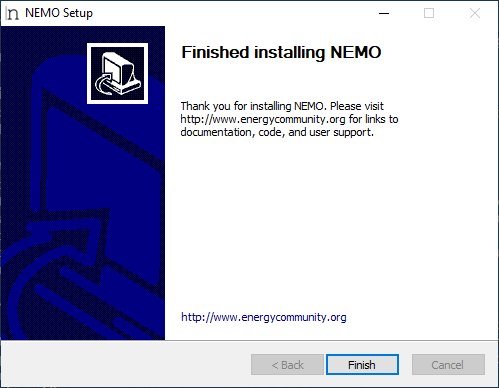
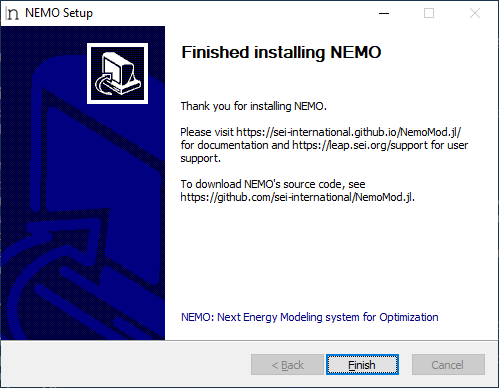
Initial documentation updates for 1.2

Changed region(s): [[0.3607, 0.2474, 0.9319, 0.433], [0.3607, 0.4639, 0.8417, 0.5258], [0.3607, 0.8041, 0.8717, 0.8351]]

diff --git a/docs/src/quick_start.md b/docs/src/quick_start.md
@@ -22,99 +22,104 @@ NEMO includes a number of features and options, so it's worth familiarizing your
    The first command activates the Julia packages for NEMO, JuMP (an optimization toolkit that NEMO uses), and Cbc (a solver). The next two commands locate the test scenario's [database](@ref scenario_db) and ensure this file is writable (so NEMO can save scenario results). The final command calculates the scenario. You should see output like the following:
 
    ```
-   2020-18-May 16:11:35.568 Started scenario calculation.
-   2020-18-May 16:11:35.572 Validated run-time arguments.
-   2020-18-May 16:11:35.573 Connected to scenario database. Path = C:\Users\Jason\.julia\packages\NemoMod\Pq841\test\storage_test.sqlite.
-   2020-18-May 16:11:35.575 Dropped pre-existing result tables from database.
-   2020-18-May 16:11:35.581 Verified that transmission modeling is not enabled.
-   2020-18-May 16:11:35.621 Created parameter views and indices.
-   2020-18-May 16:11:35.624 Defined dimensions.
-   2020-18-May 16:11:35.625 Defined demand variables.
-   2020-18-May 16:11:35.628 Defined storage variables.
-   2020-18-May 16:11:35.632 Defined capacity variables.
-   2020-18-May 16:11:35.799 Defined activity variables.
-   2020-18-May 16:11:35.800 Defined costing variables.
-   2020-18-May 16:11:35.801 Defined reserve margin variables.
-   2020-18-May 16:11:35.805 Defined renewable energy target variables.
-   2020-18-May 16:11:35.806 Defined emissions variables.
-   2020-18-May 16:11:35.807 Defined combined nodal and non-nodal variables.
-   2020-18-May 16:11:35.807 Finished defining model variables.
-   2020-18-May 16:11:35.809 Created constraint CAa1_TotalNewCapacity.
-   2020-18-May 16:11:35.809 Created constraint CAa2_TotalAnnualCapacity.
-   2020-18-May 16:11:35.818 Created constraint CAa3_TotalActivityOfEachTechnology.
-   2020-18-May 16:11:35.845 Created constraint CAa4_Constraint_Capacity.
-   2020-18-May 16:11:35.949 Created constraint EBa2_RateOfFuelProduction2.
-   2020-18-May 16:11:35.959 Created constraint EBa3_RateOfFuelProduction3.
-   2020-18-May 16:11:35.962 Created constraint VRateOfProduction1.
-   2020-18-May 16:11:35.971 Created constraint EBa5_RateOfFuelUse2.
-   2020-18-May 16:11:35.977 Created constraint EBa6_RateOfFuelUse3.
-   2020-18-May 16:11:35.982 Created constraint VRateOfUse1.
-   2020-18-May 16:11:36.000 Created constraint EBa7_EnergyBalanceEachTS1.
-   2020-18-May 16:11:36.001 Created constraint EBa8_EnergyBalanceEachTS2.
-   2020-18-May 16:11:36.012 Created constraint EBa9_EnergyBalanceEachTS3.
-   2020-18-May 16:11:36.016 Created constraint EBa10_EnergyBalanceEachTS4.
-   2020-18-May 16:11:36.036 Created constraint EBa11_EnergyBalanceEachTS5.
-   2020-18-May 16:11:36.038 Created constraint EBb0_EnergyBalanceEachYear.
-   2020-18-May 16:11:36.040 Created constraint EBb1_EnergyBalanceEachYear.
-   2020-18-May 16:11:36.041 Created constraint EBb2_EnergyBalanceEachYear.
-   2020-18-May 16:11:36.043 Created constraint EBb3_EnergyBalanceEachYear.
-   2020-18-May 16:11:36.048 Created constraint EBb5_EnergyBalanceEachYear.
-   2020-18-May 16:11:36.084 Created constraint Acc3_AverageAnnualRateOfActivity.
-   2020-18-May 16:11:36.092 Created constraint NS1_RateOfStorageCharge.
-   2020-18-May 16:11:36.099 Created constraint NS2_RateOfStorageDischarge.
-   2020-18-May 16:11:36.107 Created constraint NS3_StorageLevelTsGroup1Start.
-   2020-18-May 16:11:36.108 Created constraint NS4_StorageLevelTsGroup2Start.
-   2020-18-May 16:11:36.113 Created constraint NS5_StorageLevelTimesliceEnd.
-   2020-18-May 16:11:36.116 Created constraint NS6_StorageLevelTsGroup2End.
-   2020-18-May 16:11:36.117 Created constraint NS7_StorageLevelTsGroup1End.
-   2020-18-May 16:11:36.127 Created constraint NS8_StorageLevelYearEnd.
-   2020-18-May 16:11:36.127 Created constraint SI1_StorageUpperLimit.
-   2020-18-May 16:11:36.128 Created constraint SI2_StorageLowerLimit.
-   2020-18-May 16:11:36.129 Created constraint SI3_TotalNewStorage.
-   2020-18-May 16:11:36.133 Created constraint NS9a_StorageLevelTsLowerLimit.
-   2020-18-May 16:11:36.134 Created constraint NS9b_StorageLevelTsUpperLimit.
-   2020-18-May 16:11:36.138 Created constraint NS10_StorageChargeLimit.
-   2020-18-May 16:11:36.144 Created constraint NS11_StorageDischargeLimit.
-   2020-18-May 16:11:36.145 Created constraint NS12a_StorageLevelTsGroup2LowerLimit.
-   2020-18-May 16:11:36.146 Created constraint NS12b_StorageLevelTsGroup2UpperLimit.
-   2020-18-May 16:11:36.147 Created constraint NS13a_StorageLevelTsGroup1LowerLimit.
-   2020-18-May 16:11:36.147 Created constraint NS13b_StorageLevelTsGroup1UpperLimit.
-   2020-18-May 16:11:36.148 Created constraint NS18_FullLoadHours.
-   2020-18-May 16:11:36.153 Created constraint SI4_UndiscountedCapitalInvestmentStorage.
-   2020-18-May 16:11:36.154 Created constraint SI5_DiscountingCapitalInvestmentStorage.
-   2020-18-May 16:11:36.156 Created constraint SI8_SalvageValueStorageAtEndOfPeriod3.
-   2020-18-May 16:11:36.157 Created constraint SI9_SalvageValueStorageDiscountedToStartYear.
-   2020-18-May 16:11:36.157 Created constraint SI10_TotalDiscountedCostByStorage.
-   2020-18-May 16:11:36.158 Created constraint CC1_UndiscountedCapitalInvestment.
-   2020-18-May 16:11:36.161 Created constraint CC2_DiscountingCapitalInvestment.
-   2020-18-May 16:11:36.169 Created constraint SV1_SalvageValueAtEndOfPeriod1.
-   2020-18-May 16:11:36.173 Created constraint SV4_SalvageValueDiscountedToStartYear.
-   2020-18-May 16:11:36.173 Created constraint OC1_OperatingCostsVariable.
-   2020-18-May 16:11:36.174 Created constraint OC2_OperatingCostsFixedAnnual.
-   2020-18-May 16:11:36.175 Created constraint OC3_OperatingCostsTotalAnnual.
-   2020-18-May 16:11:36.183 Created constraint OC4_DiscountedOperatingCostsTotalAnnual.
-   2020-18-May 16:11:36.184 Created constraint TDC1_TotalDiscountedCostByTechnology.
-   2020-18-May 16:11:36.184 Created constraint TDC2_TotalDiscountedCost.
-   2020-18-May 16:11:36.185 Created constraint TCC1_TotalAnnualMaxCapacityConstraint.
-   2020-18-May 16:11:36.185 Created constraint NCC1_TotalAnnualMaxNewCapacityConstraint.
-   2020-18-May 16:11:36.186 Created constraint RM1_ReserveMargin_TechnologiesIncluded_In_Activity_Units.
-   2020-18-May 16:11:36.191 Created constraint RM2_ReserveMargin_FuelsIncluded.
-   2020-18-May 16:11:36.197 Created constraint RM3_ReserveMargin_Constraint.
-   2020-18-May 16:11:36.204 Created constraint RE1_FuelProductionByTechnologyAnnual.
-   2020-18-May 16:11:36.210 Created constraint FuelUseByTechnologyAnnual.
-   2020-18-May 16:11:36.217 Created constraint E5_DiscountedEmissionsPenaltyByTechnology.
-   2020-18-May 16:11:36.221 Defined model objective.
-   2020-18-May 16:11:43.500 Solved model. Solver status = Optimal.
-   2020-18-May 16:11:43.524 Saved results for vdemandnn to database.
-   2020-18-May 16:11:43.542 Saved results for vnewcapacity to database.
-   2020-18-May 16:11:43.557 Saved results for vtotalcapacityannual to database.
-   2020-18-May 16:11:43.575 Saved results for vproductionbytechnologyannual to database.
-   2020-18-May 16:11:43.601 Saved results for vproductionnn to database.
-   2020-18-May 16:11:43.616 Saved results for vusebytechnologyannual to database.
-   2020-18-May 16:11:43.638 Saved results for vusenn to database.
-   2020-18-May 16:11:43.652 Saved results for vtotaldiscountedcost to database.
-   2020-18-May 16:11:43.654 Finished saving results to database.
-   2020-18-May 16:11:43.654 Finished scenario calculation.
+   2020-09-Sep 15:12:17.164 Started scenario calculation.
+   2020-09-Sep 15:12:17.165 Validated run-time arguments.
+   2020-09-Sep 15:12:17.226 0 specified for numprocs argument. Using 8 processes for parallelized operations.
+   2020-09-Sep 15:13:15.411 Loaded NEMO on parallel processes 1, 2, 3, 4, 5, 6, 7, 8.
+   2020-09-Sep 15:13:15.411 Connected to scenario database. Path = c:/temp/storage_test.sqlite.
+   2020-09-Sep 15:13:16.035 Dropped pre-existing result tables from database.
+   2020-09-Sep 15:13:16.037 Verified that transmission modeling is not enabled.
+   2020-09-Sep 15:13:16.299 Created parameter views and indices.
+   2020-09-Sep 15:13:16.321 Created temporary tables.
+   2020-09-Sep 15:13:18.459 Executed core database queries.
+   2020-09-Sep 15:13:18.613 Defined dimensions.
+   2020-09-Sep 15:13:18.626 Defined demand variables.
+   2020-09-Sep 15:13:18.628 Defined storage variables.
+   2020-09-Sep 15:13:18.629 Defined capacity variables.
+   2020-09-Sep 15:13:18.873 Defined activity variables.
+   2020-09-Sep 15:13:18.874 Defined costing variables.
+   2020-09-Sep 15:13:18.875 Defined reserve margin variables.
+   2020-09-Sep 15:13:18.882 Defined renewable energy target variables.
+   2020-09-Sep 15:13:18.883 Defined emissions variables.
+   2020-09-Sep 15:13:18.883 Defined combined nodal and non-nodal variables.
+   2020-09-Sep 15:13:18.884 Finished defining model variables.
+   2020-09-Sep 15:13:18.908 Created constraint CAa1_TotalNewCapacity.
+   2020-09-Sep 15:13:18.920 Created constraint CAa2_TotalAnnualCapacity.
+   2020-09-Sep 15:13:18.931 Created constraint CAa3_TotalActivityOfEachTechnology.
+   2020-09-Sep 15:13:18.964 Created constraint CAa4_Constraint_Capacity.
+   2020-09-Sep 15:13:18.978 Created constraint EBa2_RateOfFuelProduction2.
+   2020-09-Sep 15:13:19.003 Created constraint EBa3_RateOfFuelProduction3.
+   2020-09-Sep 15:13:19.006 Created constraint VRateOfProduction1.
+   2020-09-Sep 15:13:19.012 Created constraint EBa5_RateOfFuelUse2.
+   2020-09-Sep 15:13:19.022 Created constraint EBa6_RateOfFuelUse3.
+   2020-09-Sep 15:13:19.032 Created constraint VRateOfUse1.
+   2020-09-Sep 15:13:19.052 Created constraint EBa7_EnergyBalanceEachTS1.
+   2020-09-Sep 15:13:19.056 Created constraint EBa8_EnergyBalanceEachTS2.
+   2020-09-Sep 15:13:19.065 Created constraint EBa9_EnergyBalanceEachTS3.
+   2020-09-Sep 15:13:19.073 Created constraint EBa10_EnergyBalanceEachTS4.
+   2020-09-Sep 15:13:19.092 Created constraint EBa11_EnergyBalanceEachTS5.
+   2020-09-Sep 15:13:19.098 Created constraint EBb0_EnergyBalanceEachYear.
+   2020-09-Sep 15:13:19.100 Created constraint EBb1_EnergyBalanceEachYear.
+   2020-09-Sep 15:13:19.101 Created constraint EBb2_EnergyBalanceEachYear.
+   2020-09-Sep 15:13:19.103 Created constraint EBb3_EnergyBalanceEachYear.
+   2020-09-Sep 15:13:19.114 Created constraint EBb5_EnergyBalanceEachYear.
+   2020-09-Sep 15:13:19.150 Created constraint Acc3_AverageAnnualRateOfActivity.
+   2020-09-Sep 15:13:19.157 Created constraint NS1_RateOfStorageCharge.
+   2020-09-Sep 15:13:19.163 Created constraint NS2_RateOfStorageDischarge.
+   2020-09-Sep 15:13:19.350 Created constraint NS3_StorageLevelTsGroup1Start.
+   2020-09-Sep 15:13:19.350 Created constraint NS4_StorageLevelTsGroup2Start.
+   2020-09-Sep 15:13:19.351 Created constraint NS5_StorageLevelTimesliceEnd.
+   2020-09-Sep 15:13:19.353 Created constraint NS6_StorageLevelTsGroup2End.
+   2020-09-Sep 15:13:19.362 Created constraint NS7_StorageLevelTsGroup1End.
+   2020-09-Sep 15:13:19.409 Created constraint NS8_StorageLevelYearEnd.
+   2020-09-Sep 15:13:19.410 Created constraint SI1_StorageUpperLimit.
+   2020-09-Sep 15:13:19.410 Created constraint SI2_StorageLowerLimit.
+   2020-09-Sep 15:13:19.411 Created constraint SI3_TotalNewStorage.
+   2020-09-Sep 15:13:19.415 Created constraint NS9a_StorageLevelTsLowerLimit.
+   2020-09-Sep 15:13:19.416 Created constraint NS9b_StorageLevelTsUpperLimit.
+   2020-09-Sep 15:13:19.419 Created constraint NS10_StorageChargeLimit.
+   2020-09-Sep 15:13:19.423 Created constraint NS11_StorageDischargeLimit.
+   2020-09-Sep 15:13:19.433 Created constraint NS12a_StorageLevelTsGroup2LowerLimit.
+   2020-09-Sep 15:13:19.433 Created constraint NS12b_StorageLevelTsGroup2UpperLimit.
+   2020-09-Sep 15:13:19.434 Created constraint NS13a_StorageLevelTsGroup1LowerLimit.
+   2020-09-Sep 15:13:19.434 Created constraint NS13b_StorageLevelTsGroup1UpperLimit.
+   2020-09-Sep 15:13:19.445 Created constraint NS18_FullLoadHours.
+   2020-09-Sep 15:13:19.446 Created constraint SI4_UndiscountedCapitalInvestmentStorage.
+   2020-09-Sep 15:13:19.454 Created constraint SI5_DiscountingCapitalInvestmentStorage.
+   2020-09-Sep 15:13:19.539 Created constraint SI8_SalvageValueStorageAtEndOfPeriod3.
+   2020-09-Sep 15:13:19.541 Created constraint SI9_SalvageValueStorageDiscountedToStartYear.
+   2020-09-Sep 15:13:19.541 Created constraint SI10_TotalDiscountedCostByStorage.
+   2020-09-Sep 15:13:19.542 Created constraint CC1_UndiscountedCapitalInvestment.
+   2020-09-Sep 15:13:19.546 Created constraint CC2_DiscountingCapitalInvestment.
+   2020-09-Sep 15:13:19.605 Created constraint SV1_SalvageValueAtEndOfPeriod1.
+   2020-09-Sep 15:13:19.608 Created constraint SV4_SalvageValueDiscountedToStartYear.
+   2020-09-Sep 15:13:19.609 Created constraint OC1_OperatingCostsVariable.
+   2020-09-Sep 15:13:19.610 Created constraint OC2_OperatingCostsFixedAnnual.
+   2020-09-Sep 15:13:19.611 Created constraint OC3_OperatingCostsTotalAnnual.
+   2020-09-Sep 15:13:19.613 Created constraint OC4_DiscountedOperatingCostsTotalAnnual.
+   2020-09-Sep 15:13:19.614 Created constraint TDC1_TotalDiscountedCostByTechnology.
+   2020-09-Sep 15:13:19.614 Created constraint TDC2_TotalDiscountedCost.
+   2020-09-Sep 15:13:19.615 Created constraint TCC1_TotalAnnualMaxCapacityConstraint.
+   2020-09-Sep 15:13:19.616 Created constraint NCC1_TotalAnnualMaxNewCapacityConstraint.
+   2020-09-Sep 15:13:19.622 Created constraint RM1_ReserveMargin_TechnologiesIncluded_In_Activity_Units.
+   2020-09-Sep 15:13:19.637 Created constraint RM2_ReserveMargin_FuelsIncluded.
+   2020-09-Sep 15:13:19.648 Created constraint RM3_ReserveMargin_Constraint.
+   2020-09-Sep 15:13:19.657 Created constraint RE1_FuelProductionByTechnologyAnnual.
+   2020-09-Sep 15:13:19.664 Created constraint FuelUseByTechnologyAnnual.
+   2020-09-Sep 15:13:19.669 Created constraint E5_DiscountedEmissionsPenaltyByTechnology.
+   2020-09-Sep 15:13:19.673 Defined model objective.
+   2020-09-Sep 15:13:27.161 Solved model. Solver status = Optimal.
+   2020-09-Sep 15:13:27.368 Saved results for vdemandnn to database.
+   2020-09-Sep 15:13:27.501 Saved results for vnewcapacity to database.
+   2020-09-Sep 15:13:27.517 Saved results for vtotalcapacityannual to database.
+   2020-09-Sep 15:13:27.897 Saved results for vproductionbytechnologyannual to database.
+   2020-09-Sep 15:13:27.921 Saved results for vproductionnn to database.
+   2020-09-Sep 15:13:27.942 Saved results for vusebytechnologyannual to database.
+   2020-09-Sep 15:13:27.968 Saved results for vusenn to database.
+   2020-09-Sep 15:13:28.091 Saved results for vtotaldiscountedcost to database.
+   2020-09-Sep 15:13:28.091 Finished saving results to database.
+   2020-09-Sep 15:13:28.107 Dropped temporary tables.
+   2020-09-Sep 15:13:28.108 Finished scenario calculation.
    :Optimal
    ```
 

diff --git a/docs/src/installation.md b/docs/src/installation.md
@@ -9,7 +9,7 @@ NEMO can be installed in two ways: through an installer program and manually via
 
 The installer program is the easiest way to install NEMO. Here are the steps to follow:
 
-1. Download a copy of the installer to your computer and run it. The installer is distributed through the [LEAP website](https://energycommunity.org/download) and is freely available once you register for the site (registration is also free).
+1. Download a copy of the installer to your computer and run it. The installer is distributed through the [LEAP website](https://leap.sei.org/download) and is freely available once you register for the site (registration is also free).
 
 2. The installer will step you through the installation process. You'll be prompted to accept the NEMO license (the [Apache License, version 2.0](http://www.apache.org/licenses/LICENSE-2.0)) and asked which components of NEMO you'd like to install.
 
@@ -45,7 +45,7 @@ If you install the NEMO system image when running the NEMO installer, you can re
 **Steps in Windows**
 
 * Close any Julia windows or processes.
-* Open the Julia library directory (typically `%LocalAppData%\Programs\Julia\<Julia version>\lib\julia`).
+* Open the Julia library directory (typically `%ALLUSERSPROFILE%\Julia\<Julia version>\lib\julia`).
 * Replace `sys.dll` with `sys.dll.nemo_backup`.
 
 Once you do this, there will be a performance penalty when starting NEMO, but any customizations you make to the NEMO code will take effect.
@@ -79,7 +79,7 @@ julia> NemoMod.calculatescenario("c:/temp/scenario_db.sqlite"; jumpmodel = Model
 
 Note that in order to do this, you must have the corresponding Julia interface (package) for the solver installed on your computer.
 
-NEMO has been tested for compatibility with the following solver packages (which in turn support the listed versions of the corresponding solvers).
+NEMO has been tested for compatibility with the following solver packages (which in turn support the listed versions of the associated solvers).
 
 | Solver | Julia package version | Solver program versions |
 |:--- | :-- |:-- |
@@ -88,12 +88,15 @@ NEMO has been tested for compatibility with the following solver packages (which
 | [GLPK](https://github.com/JuliaOpt/GLPK.jl) / [GLPKMathProgInterface](https://github.com/JuliaOpt/GLPKMathProgInterface.jl) | 0.10.0 / 0.4.4 | 4.64 |
 | [Gurobi](https://github.com/JuliaOpt/Gurobi.jl) | 0.6.0 | 7.0 - 8.1 |
 | [Mosek](https://github.com/JuliaOpt/Mosek.jl) | 0.9.8 | 8.1 |
+| [Xpress](https://github.com/jump-dev/Xpress.jl) | 0.9.1 | 8.4 - 8.9 |
 
 If you install NEMO with the [NEMO installer](@ref installer_program), all compatible solver packages will be installed as well. The packages for the open-source solvers (GLPK and Cbc) come with the underlying solver programs, so you should be able to use these solvers immediately upon installation.
 
 The Mosek Julia package also provides the underlying solver program. In this case, though, you must have a valid Mosek license installed on your computer in order to use the solver. Typically, for a single-computer license (a server license), a license file must be installed at `%USERPROFILE%\mosek\mosek.lic` (Windows) or `$HOME/mosek/mosek.lic` (Linux or MacOS). See the [Mosek documentation](https://www.mosek.com/resources/getting-started/) for more information.
 
-The Julia packages for CPLEX and Gurobi do **not** include the corresponding solver programs. These must be licensed and set up separately. If CPLEX or Gurobi is installed on your computer when you run the NEMO installer, the installer will link the Julia package to the solver binaries. Otherwise, you may need to perform this step yourself:
+The Julia packages for CPLEX, Gurobi, and Xpress do **not** include the corresponding solver programs. These must be licensed and set up separately. If CPLEX, Gurobi, or Xpress is installed on your computer when you run the NEMO installer, the installer will link the Julia package to the solver binaries. Otherwise, you may need to perform this step yourself:
+
+**CPLEX**
 
 ```julia
 julia> using Pkg
@@ -101,12 +104,20 @@ julia> using Pkg
 julia> Pkg.build("CPLEX")
 ```
 
-or
+**Gurobi**
 
 ```julia
 julia> using Pkg
 
 julia> Pkg.build("Gurobi")
+```
+
+**Xpress**
+
+```julia
+julia> using Pkg
+
+julia> Pkg.build("Xpress")
 ```
 
 !!! warning

diff --git a/docs/src/parameters.md b/docs/src/parameters.md
@@ -3,7 +3,7 @@ CurrentModule = NemoMod
 ```
 # [Parameters](@id parameters)
 
-NEMO includes a number of parameters that define data and set the terms of constraints for scenarios. As with model [dimensions](@ref dimensions), parameters are specified in a NEMO scenario database. NEMO reads them from the database and uses them to build constraints at run-time. Generally, NEMO does not create separate Julia variables for parameters.
+NEMO includes a number of parameters that define data and set the terms of constraints for scenarios. As with model [dimensions](@ref dimensions), parameters are specified in a NEMO [scenario database](@ref scenario_db). NEMO reads them from the database and uses them to build constraints at run-time. Generally, NEMO does not create separate Julia variables for parameters.
 
 Most parameters are subscripted by one or more dimensions. Parameter tables in a scenario database refer to dimensions by their abbreviation (`r` for [region](@ref region), `t` for [technology](@ref technology), and so on). The abbreviation serves as the name of the dimension's column, and the column should be populated with unique identifiers for the dimension (`val`, `name`, or `id`, depending on the dimension).
 
@@ -435,6 +435,43 @@ For example, if a technology had an efficiency of 80%, the `InputActivityRatio` 
 | `m` | text  | Mode of operation |
 | `y` | text  | Year |
 | `val` | real  | Factor |
+
+## [Ramp rate](@id RampRate)
+
+Fraction of a [technology's](@ref technology) available capacity that can be brought online or taken offline in a [time slice](@ref timeslice) and [year](@ref year). Ramp rates determine how quickly a technology's utilization can change. NEMO ignores ramp rates of 1.0 (i.e., 100%) since they effectively don't impose a limit.
+
+#### Scenario database
+
+**Table: `RampRate`**
+
+| Name | Type | Description |
+|:--- | :--: |:----------- |
+| `id` | integer | Unique identifier for row |
+| `r` | text  | Region |
+| `t` | text  | Technology |
+| `y` | text  | Year |
+| `l` | text  | Time slice |
+| `val` | real  | Fraction (0 to 1) |
+
+## [Ramping reset](@id RampingReset)
+
+Indicator that determines which [time slices](@ref timeslice) are exempt from [ramp rate](@ref RampRate) limitations. NEMO can set technology utilization to any level in these time slices. The following values are supported for this parameter:
+
+* 0 - Exempts the first time slice in each [year](@ref year).
+* 1 - Exempts the first time slice in each [time slice group 1](@ref tsgroup1) and year.
+* 2 - Exempts the first time slice in each [time slice group 2](@ref tsgroup2), time slice group 1, and year.
+
+Note that because of the way time slices and groups are configured in NEMO, these values build on one another. For example, the first time slice in each year is exempted in all cases, and the first slice in each group 1 and year is exempted when the value is 2. If you don't specify a value for this parameter, NEMO assumes the value is 2.
+
+#### Scenario database
+
+**Table: `RampingReset`**
+
+| Name | Type | Description |
+|:--- | :--: |:----------- |
+| `id` | integer | Unique identifier for row |
+| `r` | text  | Region |
+| `val` | integer  | 0, 1, or 2 |
 
 ## [Renewable energy minimum production target](@id REMinProductionTarget)
 

diff --git a/docs/src/configuration_file.md b/docs/src/configuration_file.md
@@ -8,7 +8,8 @@ When you calculate a scenario with NEMO, you can optionally provide a configurat
 NEMO configuration files are text files written in `ini` syntax. The following run-time options can be set in a configuration file.
 
 * `calculatescenarioargs` block
-  + `varstosave` - Comma-delimited list of output [variables](@ref variables) to save to the [scenario database](@ref scenario_db). NEMO adds values specified in a configuration file to those requested in the `varstosave` argument for [`calculatescenario`](@ref).  
+  + `varstosave` - Comma-delimited list of output [variables](@ref variables) to save to the [scenario database](@ref scenario_db). NEMO adds values specified in a configuration file to those requested in the `varstosave` argument for [`calculatescenario`](@ref).
+  + `numprocs` - Number of Julia processes to use for parallelized operations (a positive integer or 0 for half the number of logical processors on the executing machine). If this option is specified in a configuration file, it overrides the `numprocs` argument for [`calculatescenario`](@ref).
   + `targetprocs` - Comma-delimited list of identifiers of Julia processes that NEMO should use in parallelized operations. NEMO adds values specified in a configuration file to those requested in the `targetprocs` argument for [`calculatescenario`](@ref).
   + `restrictvars` - Indicates whether NEMO should conduct additional data analysis to limit the set of model variables created for the scenario (`true` or `false`). By default, to improve performance, NEMO selectively creates certain variables to avoid combinations of subscripts that do not exist in the scenario's data. This option increases the stringency of this filtering. It requires more processing time as the model is built, but it can substantially reduce the solve time for large models. If this option is specified in a configuration file, it overrides the `restrictvars` argument for [`calculatescenario`](@ref).
   + `reportzeros` - Indicates whether results saved in the scenario database should include values equal to zero (`true` or `false`). Forgoing zeros can substantially improve the performance of large models. If this option is specified in a configuration file, it overrides the `reportzeros` argument for [`calculatescenario`](@ref).

diff --git a/docs/src/index.md b/docs/src/index.md
@@ -15,13 +15,13 @@ NEMO is a high-performance, open-source energy system optimization modeling tool
 - Modeling of emissions and emission constraints (including carbon prices and pollutant externalities)
 - Modeling of renewable energy targets
 - Parallel processing
-- Support for multiple solvers: [GLPK](https://www.gnu.org/software/glpk/), [Cbc](https://projects.coin-or.org/Cbc), [CPLEX](https://www.ibm.com/analytics/cplex-optimizer), [Gurobi](https://www.gurobi.com/), and [Mosek](https://www.mosek.com/)
+- Support for multiple solvers: [Cbc](https://projects.coin-or.org/Cbc), [CPLEX](https://www.ibm.com/analytics/cplex-optimizer), [GLPK](https://www.gnu.org/software/glpk/), [Gurobi](https://www.gurobi.com/), [Mosek](https://www.mosek.com/), and [Xpress](https://www.fico.com/en/products/fico-xpress-optimization)
 - [SQLite](https://www.sqlite.org/) data store
 - Numerous performance tuning options
 
-NEMO can be used as a stand-alone tool but is designed to leverage the [Low Emissions Analysis Platform (LEAP)](https://energycommunity.org/) as a user interface. Many users will find it easiest to exploit NEMO via LEAP.
+NEMO can be used as a stand-alone tool but is designed to leverage the [Low Emissions Analysis Platform (LEAP)](https://leap.sei.org) as a user interface. Many users will find it easiest to exploit NEMO via LEAP.
 
-For more background on NEMO and its raison d’être, see the README at NEMO's [GitHub homepage](https://github.com/sei-international/NemoMod.jl).
+For more background on NEMO and its raison d'être, see the README at NEMO's [GitHub homepage](https://github.com/sei-international/NemoMod.jl).
 
 # NEMO team
 

diff --git a/README.md b/README.md
@@ -11,11 +11,11 @@ NEMO is a high performance, open-source energy system optimization modeling tool
 - Modeling of emissions and emission constraints (including carbon pricing and pollutant externalities)
 - Modeling of renewable energy targets
 - Parallel processing
-- Support for multiple solvers: [GLPK](https://www.gnu.org/software/glpk/), [Cbc](https://projects.coin-or.org/Cbc), [CPLEX](https://www.ibm.com/analytics/cplex-optimizer), [Gurobi](https://www.gurobi.com/), [Mosek](https://www.mosek.com/), and [Xpress](https://www.fico.com/en/products/fico-xpress-optimization)
+- Support for multiple solvers: [Cbc](https://projects.coin-or.org/Cbc), [CPLEX](https://www.ibm.com/analytics/cplex-optimizer), [GLPK](https://www.gnu.org/software/glpk/), [Gurobi](https://www.gurobi.com/), [Mosek](https://www.mosek.com/), and [Xpress](https://www.fico.com/en/products/fico-xpress-optimization)
 - [SQLite](https://www.sqlite.org/) data store
 - Numerous performance tuning options
 
-NEMO can be used in command line mode or with the [Low Emissions Analysis Platform](https://www.energycommunity.org/) (LEAP - formerly the Long-range Energy Alternatives Planning system) as a graphical user interface.
+NEMO can be used in command line mode or with the [Low Emissions Analysis Platform](https://leap.sei.org/) (LEAP - formerly the Long-range Energy Alternatives Planning system) as a graphical user interface.
 
 Development of NEMO is led by the Energy Modeling Program at the [Stockholm Environment Institute (SEI)](https://www.sei.org/).
 
